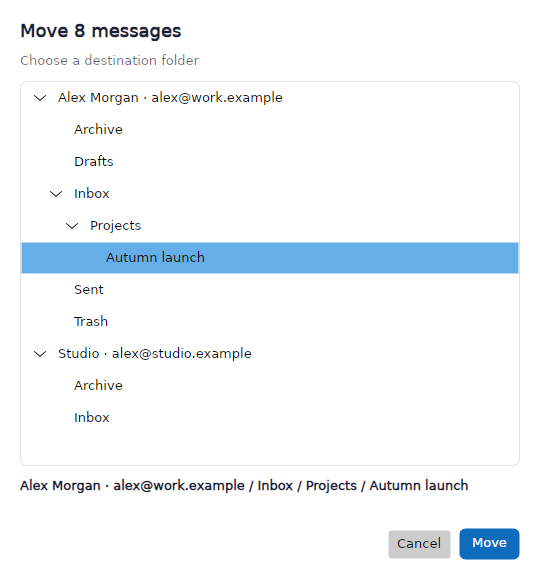
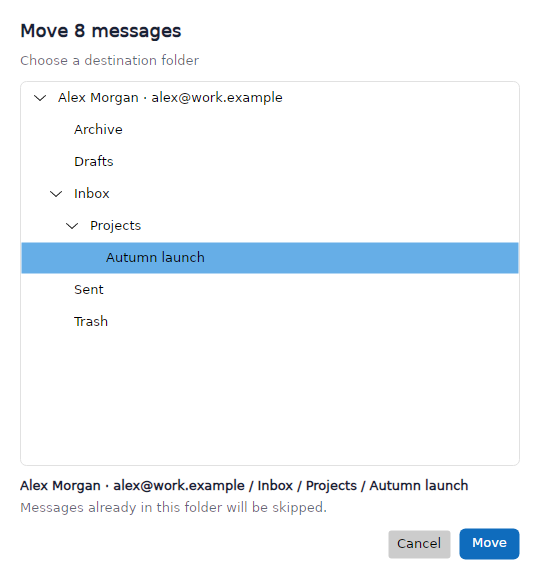
Hide unsupported mailbox destinations from the move picker

diff --git a/src/BetterMail.App/MailMoveWindow.axaml.cs b/src/BetterMail.App/MailMoveWindow.axaml.cs
@@ -15,7 +15,11 @@ public sealed partial class MailMoveWindow : Window
     {
         _canMove = canMove;
         Heading.Text = messageCount == 1 ? "Move message" : $"Move {messageCount:N0} messages";
-        FoldersTree.ItemsSource = MailMoveFolder.Build(folders).Select(CreateItem).ToArray();
+        var roots = MailMoveFolder.BuildDestinations(folders, canMove);
+        FoldersTree.ItemsSource = roots.Select(CreateItem).ToArray();
+        SelectionHelp.Text = roots.Count == 0
+            ? "No destination is available. Select messages from one mailbox at a time."
+            : "Choose a folder in this mailbox.";
     }
 
     public Task<MailFolderItem?> ChooseAsync(Window owner) => ShowDialog<MailFolderItem?>(owner);
@@ -35,7 +39,7 @@ public sealed partial class MailMoveWindow : Window
         DestinationPath.Text = node?.Path ?? "Select a folder";
         MoveButton.IsEnabled = _destination is not null && _canMove(_destination);
         SelectionHelp.Text = node is null || node.Folder is null
-            ? "Expand an account and choose a folder."
+            ? "Choose a folder in this mailbox."
             : MoveButton.IsEnabled ? "Messages already in this folder will be skipped."
             : "Cross-account moves are not available yet. Choose a folder in the source mailbox.";
     }
@@ -50,6 +54,9 @@ public sealed partial class MailMoveWindow : Window
 internal sealed record MailMoveFolder(string Name, string Path, MailFolderItem? Folder,
     IReadOnlyList<MailMoveFolder> Children)
 {
+    internal static IReadOnlyList<MailMoveFolder> BuildDestinations(IEnumerable<MailFolderItem> source,
+        Func<MailFolderItem, bool> canMove) => Build(source.Where(canMove));
+
     internal static IReadOnlyList<MailMoveFolder> Build(IEnumerable<MailFolderItem> source) =>
         source.GroupBy(folder => folder.MailboxId).Select(group =>
         {

diff --git a/tests/BetterMail.Tests/MailMoveFolderTests.cs b/tests/BetterMail.Tests/MailMoveFolderTests.cs
@@ -10,6 +10,23 @@ public sealed class MailMoveFolderTests
         new(new MailFolder(mailbox, id, name, 0, 0, ParentProviderId: parent), "Work");
 
     [Fact]
+    public void MoveDestinationsHideOtherMailboxesButKeepCurrentFolderAndItsChildren()
+    {
+        var source = "a:alex@work.example";
+        var roots = MailMoveFolder.BuildDestinations([
+            Folder(source, "inbox", "Inbox"),
+            Folder(source, "projects", "Projects", "inbox"),
+            Folder("b:alex@studio.example", "inbox", "Inbox"),
+            Folder("a:shared@work.example", "inbox", "Inbox")], folder => folder.MailboxId == source);
+        var root = Assert.Single(roots);
+        var inbox = Assert.Single(root.Children);
+        Assert.Equal("inbox", inbox.Folder!.ProviderId);
+        Assert.Equal(source, inbox.Folder.MailboxId);
+        Assert.Equal("projects", Assert.Single(inbox.Children).Folder!.ProviderId);
+        Assert.Empty(MailMoveFolder.BuildDestinations([Folder(source, "inbox", "Inbox")], _ => false));
+    }
+
+    [Fact]
     public void AccountTreesKeepIdenticalFolderIdsSeparateAndShowFullPath()
     {
         var roots = MailMoveFolder.Build([

diff --git a/tools/BetterMail.UiPreview/Program.cs b/tools/BetterMail.UiPreview/Program.cs
@@ -134,6 +134,7 @@ internal static class Program
         move.Position = new PixelPoint(0, 0);
         await Task.Delay(200);
         var tree = move.FindControl<TreeView>("FoldersTree")!;
+        if (tree.Items.Count != 1) throw new InvalidOperationException("Move browser must hide other mailboxes.");
         var accountRoot = (TreeViewItem)tree.Items[0]!;
         var inboxNode = accountRoot.Items.Cast<TreeViewItem>().Single(item => (string)item.Header! == "Inbox");
         inboxNode.IsExpanded = true;
